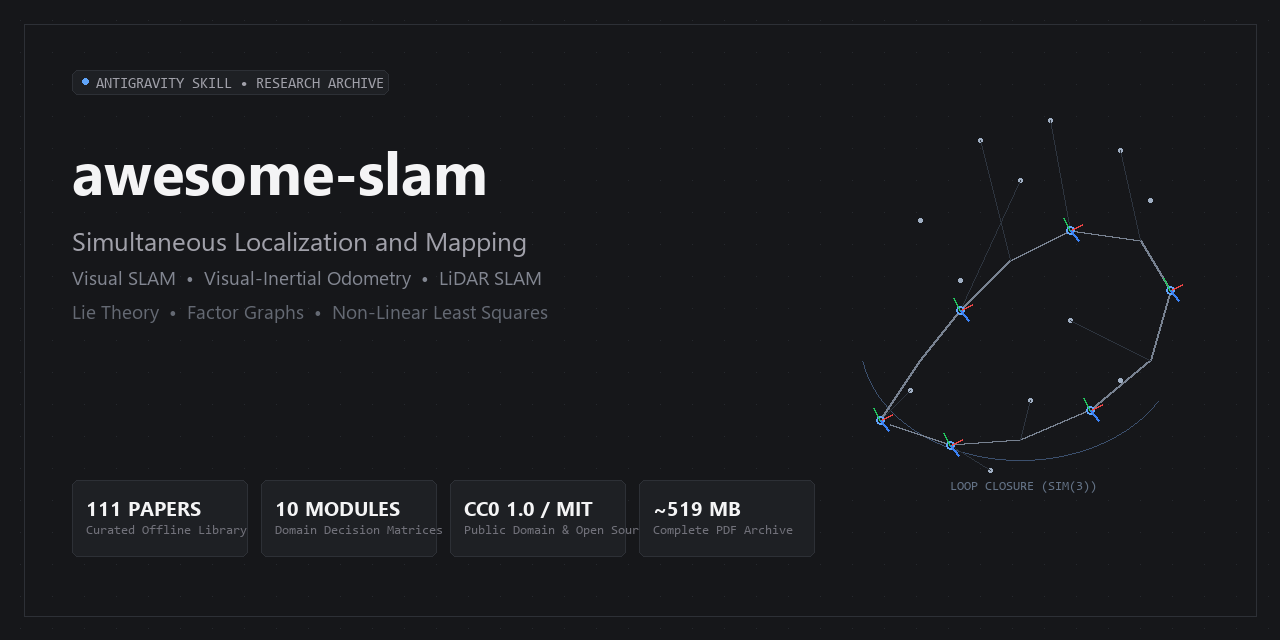
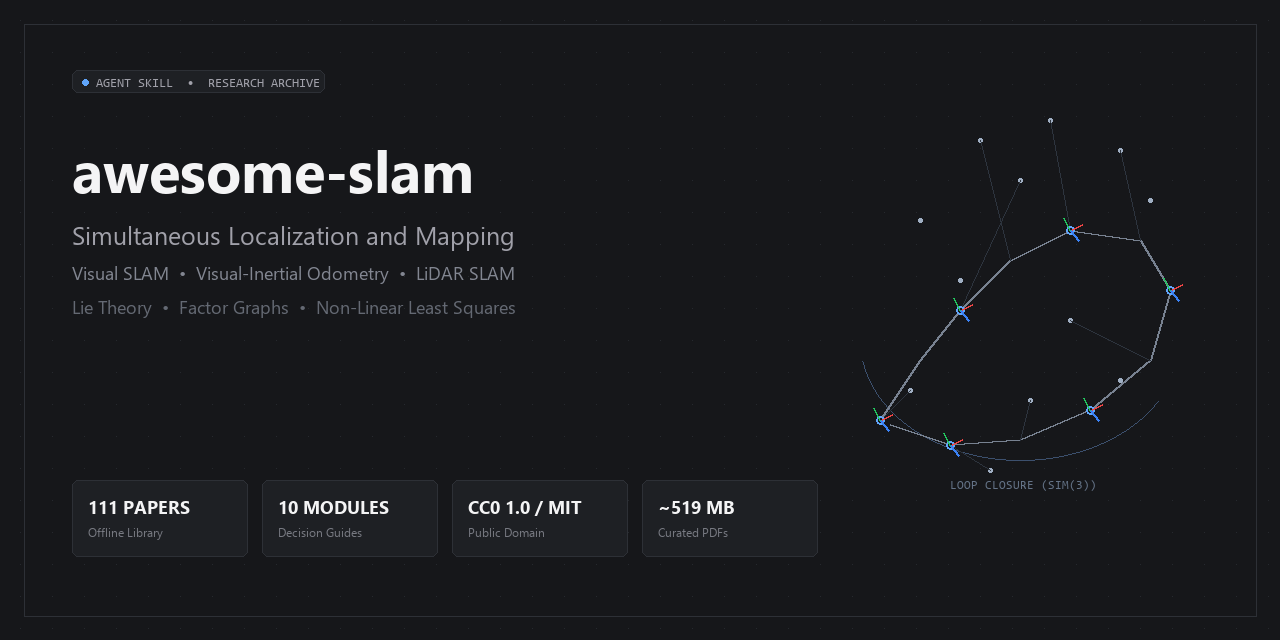
docs: generalize to universal agent skill, fix OG image branding and layout

diff --git a/README.md b/README.md
@@ -1,6 +1,6 @@
 # Awesome SLAM Skill (`awesome-slam`)
 
-[![Antigravity Skill](https://img.shields.io/badge/Antigravity-Skill-blue.svg)](https://github.com/Eyokurt/awesome-slam-skill)
+[![Agent Skill](https://img.shields.io/badge/Agent%20Skill-Ready-blue.svg)](SKILL.md)
 [![License: CC0-1.0](https://img.shields.io/badge/License-CC0_1.0-lightgrey.svg)](LICENSE)
 [![Offline Archive](https://img.shields.io/badge/Offline%20Papers-111%20PDFs%20(~519MB)-brightgreen.svg)](references/papers-catalog.md)
 
@@ -137,10 +137,10 @@ awesome-slam/
 
 ---
 
-## 🚀 How to Install & Use in Antigravity
+## 🚀 Installation & Usage as an Agent Skill
 
 ### Option 1: Global Installation (Recommended)
-Place the `awesome-slam` directory inside your personal Antigravity config directory:
+Place the `awesome-slam` directory inside your personal agent skills directory:
 ```powershell
 # Windows
 Copy-Item -Recurse awesome-slam "$env:USERPROFILE\.gemini\config\skills\"
@@ -157,7 +157,7 @@ cp -r awesome-slam .agents/skills/
 ```
 
 ### Triggering the Skill in Prompts
-Antigravity will automatically discover and activate this skill when you prompt:
+AI coding agents will automatically discover and activate this skill when you prompt:
 - *"Which SLAM pipeline should I choose for an indoor delivery robot with an RGB-D camera and low-cost IMU?"*
 - *"Derive the right Jacobian of SO(3) for camera pose perturbation."*
 - *"Help me debug tracking loss in VINS-Mono during rapid pure yaw rotation."*
